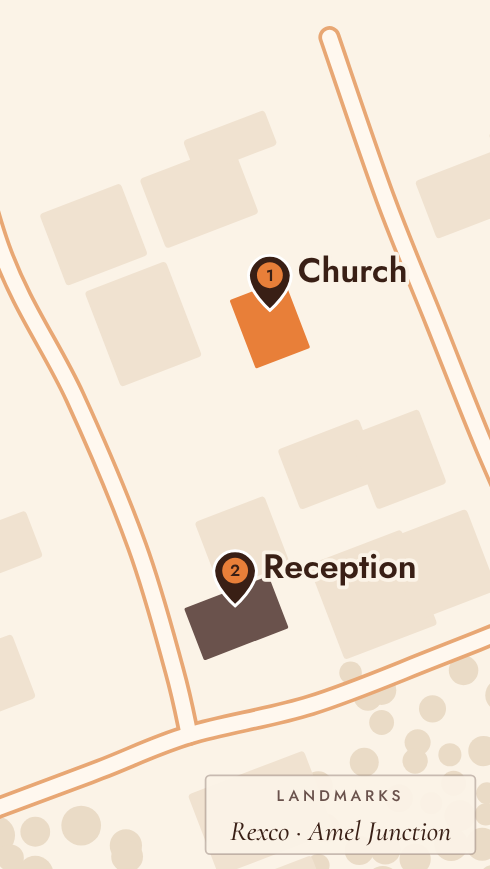
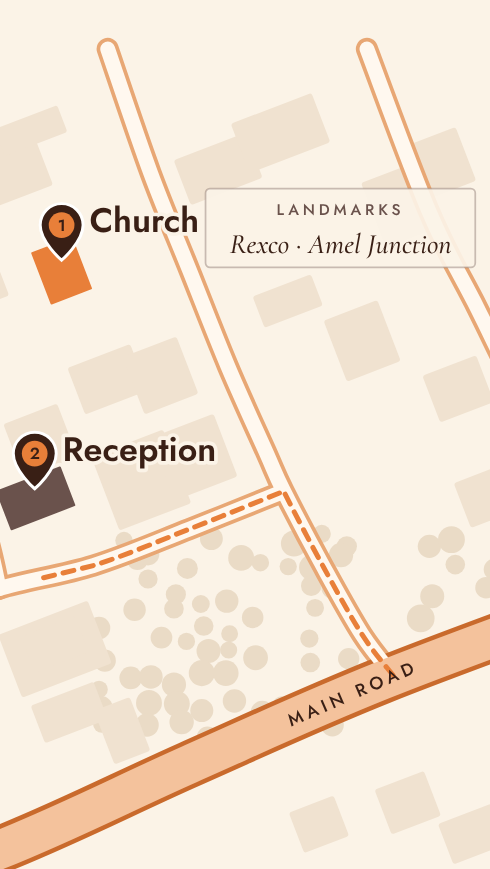
Show the town's main road on the Canva maps, with the way in from it
Everyone coming in or out of Tepa uses the paved main road, so it leads guests to the venues. It is
traced straight along the line the couple marked, drawn bold in burnt orange and labelled, and a
dashed route follows the east road up from it and the cross road west to the reception's gate. The
tall maps look a little further south-east so the road runs across their foot, with the landmarks
note moved up to the north-east corner, clear of it.

diff --git a/design/card-maps/traced/tepa_map.py b/design/card-maps/traced/tepa_map.py
@@ -4,6 +4,7 @@ World coordinates are pixels of that satellite image (1139 x 947, north up). Eac
 its own window onto the world (a viewBox) and its own look (a style), and gets an SVG back.
 """
 
+import math
 import random
 
 # Dirt roads, traced along their centre lines.
@@ -14,8 +15,34 @@ ROADS = {
     "far_east": [(835, -40), (900, 130), (950, 230), (1000, 330), (1060, 430), (1100, 505)],
     "north": [(-60, 133), (100, 85), (200, 57), (262, 35)],
 }
-# The paved main road, running south-west to north-east below the houses.
-MAIN_ROAD = [(-80, 975), (300, 850), (560, 760), (760, 680), (880, 612), (1000, 562), (1220, 472)]
+# The town's paved main road, running south-west to north-east below the houses: the road every
+# guest comes in on, traced along the line the couple marked.
+MAIN_ROAD = [(-300, 1060), (-80, 980), (200, 885), (450, 795), (650, 705), (850, 618), (1110, 520), (1500, 370)]
+# The way in from the main road: up the east road to the corner, then west along the cross road to
+# the reception's gate, as (road, from point, to point) along the traced roads.
+ROUTE = [("east", 8, 5), ("cross", 8, 6)]
+ROUTE_END = (497, 511)
+
+
+def main_road_y(x):
+    """Where the main road's centre line crosses `x`."""
+    for (start_x, start_y), (end_x, end_y) in zip(MAIN_ROAD, MAIN_ROAD[1:]):
+        if start_x <= x <= end_x:
+            return start_y + (end_y - start_y) * (x - start_x) / (end_x - start_x)
+    return MAIN_ROAD[-1][1]
+
+
+def main_road_label_spot(view):
+    """A point on the main road inside `view`, left of centre, clear of the edges, and its angle."""
+    left, top, width, height = view
+    for share in (0.72, 0.64, 0.8, 0.88, 0.55, 0.45, 0.35, 0.25):
+        x = left + width * share
+        y = main_road_y(x)
+        if top + height * 0.12 < y < top + height * 0.9:
+            ahead = main_road_y(x + 10)
+            return x, y, math.degrees(math.atan2(ahead - y, 10))
+    x = left + width * 0.3
+    return x, main_road_y(x), -24
 
 # Roofs, as (left, top, right, bottom) boxes, traced roughly.
 BUILDINGS = [
@@ -27,6 +54,8 @@ BUILDINGS = [
     (200, 390, 245, 445), (285, 445, 320, 500), (100, 440, 150, 500), (100, 495, 170, 545),
     (20, 250, 80, 300), (460, 550, 560, 620), (490, 630, 560, 672), (560, 640, 600, 700),
     (30, 520, 90, 575), (130, 330, 175, 380), (700, 20, 790, 75), (880, 50, 940, 110),
+    (850, 720, 905, 770), (915, 755, 975, 800), (930, 830, 990, 880), (760, 745, 810, 790),
+    (560, 850, 615, 892), (300, 905, 360, 945), (1020, 700, 1080, 750), (480, 560, 540, 600),
 ]
 # Trees: the wooded block between the east road and the main road, and smaller groves.
 GROVES = [
@@ -41,7 +70,8 @@ RECEPTION = {"box": (452, 404, 528, 452), "pin": (489, 418)}
 
 LIGHT = {
     "ground": "#FAF6F4", "block": "#F3EBE6", "building": "#EDE2DC", "tree": "#E9DED7",
-    "casing": "#E3D4CB", "road": "#FFFFFF", "main_casing": "#D9C7BC", "main": "#FFFFFF",
+    "casing": "#E3D4CB", "road": "#FFFFFF", "main_casing": "#E09A66", "main": "#F6D6BC",
+    "main_label": "#3D2927", "route": "#E87F39",
     "church": "#E87F39", "reception": "#6A524C", "pin": "#3D2927", "pin_dot": "#E87F39",
     "pin_number": "#3D2927", "label": "#3D2927", "small": "#6A524C", "card": "#FFFFFF",
     "card_edge": "#EADFDA",
@@ -61,6 +91,30 @@ def _path(points):
             f"C{first[0]:.1f} {first[1]:.1f} {second[0]:.1f} {second[1]:.1f} {end[0]:.1f} {end[1]:.1f}"
         )
     return "".join(commands)
+
+
+def _section(points, start, end):
+    """The smoothed curve of `points` from index `start` to index `end` (either way round), with the
+    same tangents as the whole road, so it lies exactly on it."""
+    step = 1 if end > start else -1
+    commands = [f"M{points[start][0]:.1f} {points[start][1]:.1f}"]
+    index = start
+    while index != end:
+        before = points[min(max(index - step, 0), len(points) - 1)]
+        here, there = points[index], points[index + step]
+        after = points[min(max(index + 2 * step, 0), len(points) - 1)]
+        first = (here[0] + (there[0] - before[0]) / 6, here[1] + (there[1] - before[1]) / 6)
+        second = (there[0] - (after[0] - here[0]) / 6, there[1] - (after[1] - here[1]) / 6)
+        commands.append(f"C{first[0]:.1f} {first[1]:.1f} {second[0]:.1f} {second[1]:.1f} {there[0]:.1f} {there[1]:.1f}")
+        index += step
+    return "".join(commands)
+
+
+def route_path():
+    """The dashed way in, along the roads themselves, ending at the reception's gate."""
+    pieces = [_section(ROADS[road], start, end) for road, start, end in ROUTE]
+    joined = pieces[0] + "".join("L" + piece[1:] for piece in pieces[1:])
+    return joined + f"L{ROUTE_END[0]} {ROUTE_END[1]}"
 
 
 # The streets run about 21 degrees off north, and the houses face them.
@@ -90,7 +144,8 @@ def _pin(position, number, style, scale):
     )
 
 
-def map_svg(view, style=LIGHT, scale=1.0, label_size=17, landmarks=True, compass=True, aria=True, caption=True):
+def map_svg(view, style=LIGHT, scale=1.0, label_size=17, landmarks=True, compass=True, aria=True, caption=True,
+            landmarks_corner="left"):
     """The map for one window, `view` = (left, top, width, height) in world pixels."""
     left, top, width, height = view
     road = 10 * scale
@@ -118,11 +173,21 @@ def map_svg(view, style=LIGHT, scale=1.0, label_size=17, landmarks=True, compass
     lines = []
     for points in ROADS.values():
         lines.append(f'<path d="{_path(points)}" stroke="{style["casing"]}" stroke-width="{road + 5 * scale:.1f}"/>')
-    lines.append(f'<path d="{_path(MAIN_ROAD)}" stroke="{style["main_casing"]}" stroke-width="{road * 2.1 + 5 * scale:.1f}"/>')
+    lines.append(f'<path d="{_path(MAIN_ROAD)}" stroke="{style["main_casing"]}" stroke-width="{road * 2.6 + 5 * scale:.1f}"/>')
     for points in ROADS.values():
         lines.append(f'<path d="{_path(points)}" stroke="{style["road"]}" stroke-width="{road:.1f}"/>')
-    lines.append(f'<path d="{_path(MAIN_ROAD)}" stroke="{style["main"]}" stroke-width="{road * 2.1:.1f}"/>')
+    lines.append(f'<path d="{_path(MAIN_ROAD)}" stroke="{style["main"]}" stroke-width="{road * 2.6:.1f}"/>')
+    lines.append(
+        f'<path d="{route_path()}" stroke="{style["route"]}" stroke-width="{road * 0.32:.1f}" '
+        f'stroke-dasharray="{road * 0.7:.1f} {road * 0.55:.1f}"/>'
+    )
     parts.append(f'<g fill="none" stroke-linecap="round" stroke-linejoin="round">{"".join(lines)}</g>')
+    label_x, label_y, angle = main_road_label_spot(view)
+    parts.append(
+        f'<text x="{label_x:.1f}" y="{label_y:.1f}" dy="0.35em" text-anchor="middle" transform="rotate({angle:.1f} {label_x:.1f} {label_y:.1f})" '
+        f'font-family="Jost, sans-serif" font-weight="500" font-size="{road * 1.15:.1f}" letter-spacing="{road * 0.28:.1f}" '
+        f'fill="{style["main_label"]}">MAIN ROAD</text>'
+    )
 
     for place, fill in ((CHURCH, style["church"]), (RECEPTION, style["reception"])):
         parts.append(_roof(place["box"], 3, f' fill="{fill}" stroke="#FFFFFF" stroke-width="{2 * scale:.1f}"'))
@@ -156,7 +221,8 @@ def map_svg(view, style=LIGHT, scale=1.0, label_size=17, landmarks=True, compass
         )
     if landmarks:
         box_width, box_height = 150 * scale, 40 * scale
-        box_x, box_y = left + width - box_width - 10 * scale, top + height - box_height - 10 * scale
+        box_x = left + 10 * scale if landmarks_corner == "left" else left + width - box_width - 10 * scale
+        box_y = top + height - box_height - 10 * scale
         parts.append(
             f'<g transform="translate({box_x:.1f} {box_y:.1f})">'
             f'<rect width="{box_width:.1f}" height="{box_height:.1f}" rx="{3 * scale:.1f}" fill="{style["card"]}" '
@@ -169,7 +235,7 @@ def map_svg(view, style=LIGHT, scale=1.0, label_size=17, landmarks=True, compass
         )
     if caption:
         parts.append(
-            f'<text x="{left + 12 * scale:.1f}" y="{top + height - 12 * scale:.1f}" font-family="Jost, sans-serif" '
+            f'<text x="{left + 12 * scale:.1f}" y="{top + 20 * scale:.1f}" font-family="Jost, sans-serif" '
             f'font-size="{8.5 * scale:.1f}" letter-spacing="{1.8 * scale:.1f}" fill="{style["small"]}">TEPA · NOT TO SCALE</text>'
         )
 

diff --git a/design/card-maps/traced/tepa_styles.py b/design/card-maps/traced/tepa_styles.py
@@ -2,32 +2,34 @@
 
 import random
 
-from tepa_map import BUILDINGS, CHURCH, GROVES, MAIN_ROAD, RECEPTION, ROADS, TILT, _path
+from tepa_map import BUILDINGS, CHURCH, GROVES, MAIN_ROAD, RECEPTION, ROADS, TILT, _path, main_road_label_spot, route_path
 
 STYLES = {
     # Cream card with white flowers: soft cream map, white roads, sepia edges.
     "first": {
         "ground": "#F6EFE6", "building": "#EADFD2", "tree": "#E2D6C6", "casing": "#D9C6B2", "road": "#FFFBF5",
-        "main_casing": "#CDB59D", "main": "#FFF8EE", "church": "#E87F39", "reception": "#6A524C",
+        "main_casing": "#E09A66", "main": "#F6D6BC", "church": "#E87F39", "reception": "#6A524C",
         "ink": "#3D2927", "soft": "#6A524C", "accent": "#E87F39", "roads": "cased", "pins": "pin",
         "font": "Cormorant Garamond", "italic": True, "feather": True,
     },
     # Dark floral card: the map sits on its cream panel, a touch warmer.
     "premium": {
         "ground": "#F3EADF", "building": "#E6D8C8", "tree": "#DDCFBE", "casing": "#D2BCA6", "road": "#FFFAF3",
-        "main_casing": "#C4A98F", "main": "#FFF6EA", "church": "#E87F39", "reception": "#6A524C",
+        "main_casing": "#D98C57", "main": "#F4D0B3", "church": "#E87F39", "reception": "#6A524C",
         "ink": "#3D2927", "soft": "#6A524C", "accent": "#B4561B", "roads": "cased", "pins": "pin",
         "font": "Cormorant Garamond", "italic": True, "feather": True,
     },
     # Minimal two-sided card: hairline streets, dots, small capitals.
     "quiet": {
+        "landmarks_top": True,
         "ground": "#FBF8F4", "building": "#F1EAE3", "tree": "#EEE6DE", "casing": "#CDBFB4", "road": "#CDBFB4",
-        "main_casing": "#B9A79A", "main": "#B9A79A", "church": "#E87F39", "reception": "#3D2927",
+        "main_casing": "#E87F39", "main": "#E87F39", "church": "#E87F39", "reception": "#3D2927",
         "ink": "#42271A", "soft": "#7A6258", "accent": "#E87F39", "roads": "line", "pins": "dot",
         "font": "Jost", "italic": False, "caps": True, "feather": True,
     },
     # Art Deco card: dark cocoa, burnt-orange streets, cream diamonds.
     "deco": {
+        "landmarks_top": True,
         "ground": "#2E1E1B", "building": "#3B2925", "tree": "#36251F", "casing": "#2E1E1B", "road": "#B8693A",
         "main_casing": "#2E1E1B", "main": "#E87F39", "church": "#E87F39", "reception": "#E6E0C5",
         "ink": "#E6E0C5", "soft": "#BFA98F", "accent": "#E87F39", "roads": "line", "pins": "diamond",
@@ -35,15 +37,17 @@ STYLES = {
     },
     # Ashanti card: warm cream panel, burnt-orange streets, room at the top for its Tepa heading.
     "ashanti": {
+        "landmarks_top": True,
         "ground": "#FBF3E7", "building": "#F0E2D0", "tree": "#EADBC6", "casing": "#E8A774", "road": "#FFF8EF",
-        "main_casing": "#E08A4C", "main": "#FFF3E4", "church": "#E87F39", "reception": "#6A524C",
+        "main_casing": "#C96A2C", "main": "#F4C29C", "church": "#E87F39", "reception": "#6A524C",
         "ink": "#391F15", "soft": "#6A524C", "accent": "#E87F39", "roads": "cased", "pins": "pin",
         "font": "Jost", "italic": False, "bold": True, "feather": False, "top_space": 0.2,
     },
     # Watercolour card: a painted wash in blush and mocha with soft, bleeding edges.
     "water": {
+        "landmarks_top": True,
         "ground": "#F4E3D7", "building": "#E9CDBB", "tree": "#DDBBA4", "casing": "#E4CBB9", "road": "#FFF8F2",
-        "main_casing": "#D9B39A", "main": "#FFF6EE", "church": "#E87F39", "reception": "#6A524C",
+        "main_casing": "#D98C5A", "main": "#F3CDB0", "church": "#E87F39", "reception": "#6A524C",
         "ink": "#593D26", "soft": "#6A524C", "accent": "#E87F39", "roads": "cased", "pins": "pin",
         "font": "Cormorant Garamond", "italic": True, "feather": False, "watercolour": True,
     },
@@ -123,15 +127,28 @@ def styled_map(name, view, width, height, unit):
     if style["roads"] == "cased":
         for points in ROADS.values():
             lines.append(f'<path d="{_path(points)}" stroke="{style["casing"]}" stroke-width="{road * 1.5:.1f}"/>')
-        lines.append(f'<path d="{_path(MAIN_ROAD)}" stroke="{style["main_casing"]}" stroke-width="{road * 2.7:.1f}"/>')
+        lines.append(f'<path d="{_path(MAIN_ROAD)}" stroke="{style["main_casing"]}" stroke-width="{road * 3.2:.1f}"/>')
         for points in ROADS.values():
             lines.append(f'<path d="{_path(points)}" stroke="{style["road"]}" stroke-width="{road:.1f}"/>')
-        lines.append(f'<path d="{_path(MAIN_ROAD)}" stroke="{style["main"]}" stroke-width="{road * 2.1:.1f}"/>')
+        lines.append(f'<path d="{_path(MAIN_ROAD)}" stroke="{style["main"]}" stroke-width="{road * 2.6:.1f}"/>')
     else:
         for points in ROADS.values():
             lines.append(f'<path d="{_path(points)}" stroke="{style["road"]}" stroke-width="{road * 0.42:.1f}"/>')
-        lines.append(f'<path d="{_path(MAIN_ROAD)}" stroke="{style["main"]}" stroke-width="{road * 0.9:.1f}"/>')
+        lines.append(f'<path d="{_path(MAIN_ROAD)}" stroke="{style["main"]}" stroke-width="{road * 1.5:.1f}"/>')
+    route_colour = style["accent"] if style["roads"] == "cased" else style["ink"]
+    lines.append(
+        f'<path d="{route_path()}" stroke="{route_colour}" stroke-width="{road * 0.34:.1f}" '
+        f'stroke-dasharray="{road * 0.75:.1f} {road * 0.6:.1f}"/>'
+    )
     parts.append(f'<g fill="none" stroke-linecap="round" stroke-linejoin="round">{"".join(lines)}</g>')
+    label_x, label_y, angle = main_road_label_spot((left, top, view_width, view_height))
+    on_road = style["roads"] == "cased"
+    parts.append(
+        f'<text x="{label_x:.1f}" y="{label_y:.1f}" dy="{"0.35em" if on_road else "-0.9em"}" text-anchor="middle" '
+        f'transform="rotate({angle:.1f} {label_x:.1f} {label_y:.1f})" font-family="Jost, sans-serif" font-weight="500" '
+        f'font-size="{road * 1.2:.1f}" letter-spacing="{road * 0.3:.1f}" fill="{style["ink"]}" '
+        f'{"" if on_road else "paint-order=" + chr(34) + "stroke" + chr(34) + " stroke=" + chr(34) + style["ground"] + chr(34) + f" stroke-width={chr(34)}{road * 0.4:.1f}{chr(34)}"}>MAIN ROAD</text>'
+    )
 
     for place, fill in ((CHURCH, style["church"]), (RECEPTION, style["reception"])):
         parts.append(_roof(place["box"], fill, f' stroke="{style["ground"]}" stroke-width="{unit * 0.25:.1f}"'))
@@ -156,12 +173,17 @@ def styled_map(name, view, width, height, unit):
 
     # The landmarks, as the couple asked: words over the map, not places on it.
     small = unit * 1.05
-    big = unit * (1.5 if caps else 1.9)
-    box_width = big * (13.2 if caps else 9.6)
+    big = unit * (1.2 if caps else 1.9)
+    box_width = big * (15.6 if caps else 9.6)
     box_height = small * 1.6 + big * 1.5 + unit * 0.8
     margin = unit + (min(view_width, view_height) * 0.09 if style.get("watercolour") else 0)
-    box_x = left + view_width - box_width - margin
-    box_y = top + view_height - box_height - margin
+    if style.get("landmarks_top"):
+        # Up in the north-east corner, clear of the main road and the way in.
+        box_x = left + view_width - box_width - margin
+        box_y = top + view_height * top_space + margin
+    else:
+        box_x = left + margin
+        box_y = top + view_height - box_height - margin
     landmark_font = "Jost" if caps else "Cormorant Garamond"
     landmark_style = "normal" if caps else "italic"
     parts.append(

diff --git a/design/card-maps/traced/canva_maps.py b/design/card-maps/traced/canva_maps.py
@@ -5,12 +5,12 @@ from tepa_styles import styled_map, STYLES
 FONTS = "/home/claude/nona/src/fonts/"
 FRAMES = {
     # name: (frame width, frame height in Canva px, world view centre x, centre y, world view height)
-    "first": (244.27, 147.26, 500, 330, 470),
-    "premium": (137.54, 154.02, 507, 340, 520),
-    "quiet": (183.77, 265.97, 497, 360, 600),
-    "deco": (160.47, 168.30, 508, 340, 520),
-    "ashanti": (122.51, 217.14, 497, 350, 560),
-    "water": (183.39, 217.14, 508, 345, 540),
+    "first": (244.27, 147.26, 560, 400, 580),
+    "premium": (137.54, 154.02, 700, 432, 664),
+    "quiet": (183.77, 265.97, 702, 458, 736),
+    "deco": (160.47, 168.30, 705, 432, 664),
+    "ashanti": (122.51, 217.14, 708, 452, 724),
+    "water": (183.39, 217.14, 700, 440, 712),
 }
 pages = {}
 for name, (frame_width, frame_height, centre_x, centre_y, view_height) in FRAMES.items():
